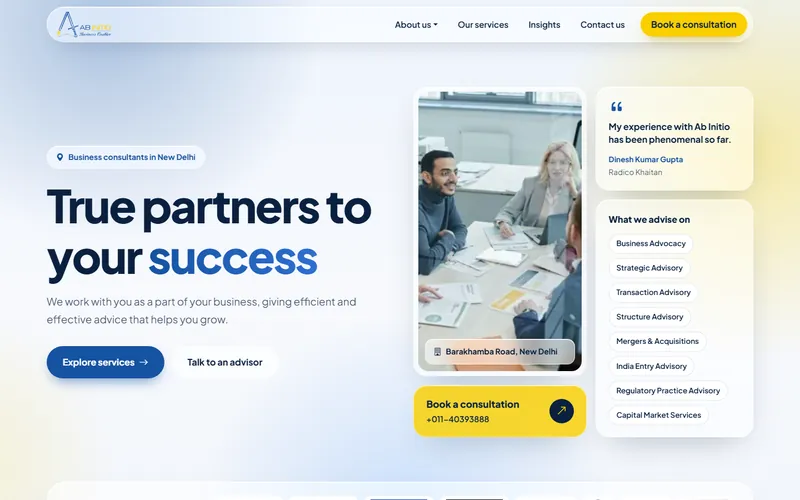
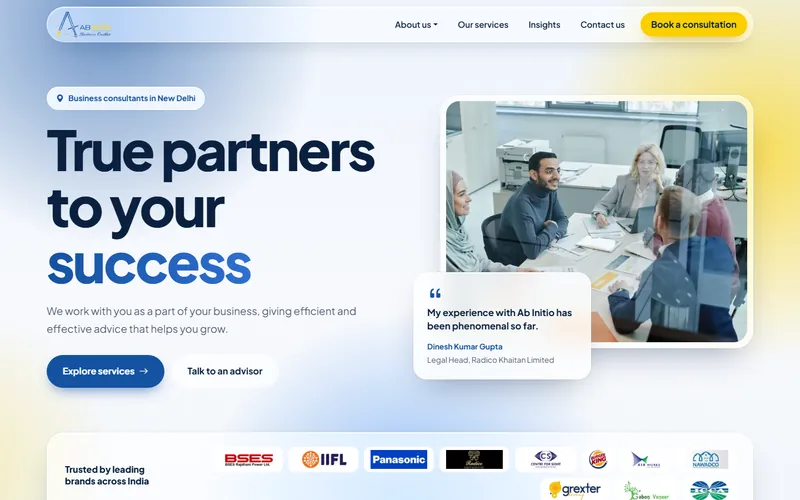
Update theme chooser previews and README credits

diff --git a/index.html b/index.html
@@ -4,7 +4,7 @@
 <meta charset="utf-8">
 <meta name="viewport" content="width=device-width, initial-scale=1">
 <title>Ab Initio India – Website Theme Options</title>
-<meta name="description" content="Three glassmorphism design directions for the new Ab Initio India website: Midnight Gold Glass, Aurora Brand Glass and Royal Crimson Glass.">
+<meta name="description" content="Three glassmorphism design directions for the new Ab Initio India website: Ivory Gold Glass, Aurora Brand Glass and Royal Crimson Glass.">
 <meta name="robots" content="noindex">
 <link rel="icon" href="Theme-B-Brand-Blue/assets/img/logo.png">
 <link rel="preconnect" href="https://fonts.googleapis.com"><link rel="preconnect" href="https://fonts.gstatic.com" crossorigin>
@@ -60,8 +60,8 @@
   <div class="grid">
     <a class="card a" href="Theme-A-Heritage/index.html">
       <div class="shot"><img src="assets/previews/theme-a.webp" alt="" width="800" height="500"></div>
-      <div class="body"><span class="tag">Theme A</span><h2>Midnight Gold Glass</h2>
-        <p>Deep midnight with drifting amber light behind frosted glass. Editorial serif type, sticky stacking service cards and a magazine-style insights page.</p>
+      <div class="body"><span class="tag">Theme A</span><h2>Ivory Gold Glass</h2>
+        <p>Light, warm luxury editorial: ivory and champagne with warm frosted glass and gold hairlines. Arched photo frames, serif type and a magazine-style insights page.</p>
         <span class="go">Preview Theme A</span></div>
     </a>
     <a class="card b" href="Theme-B-Brand-Blue/index.html">
